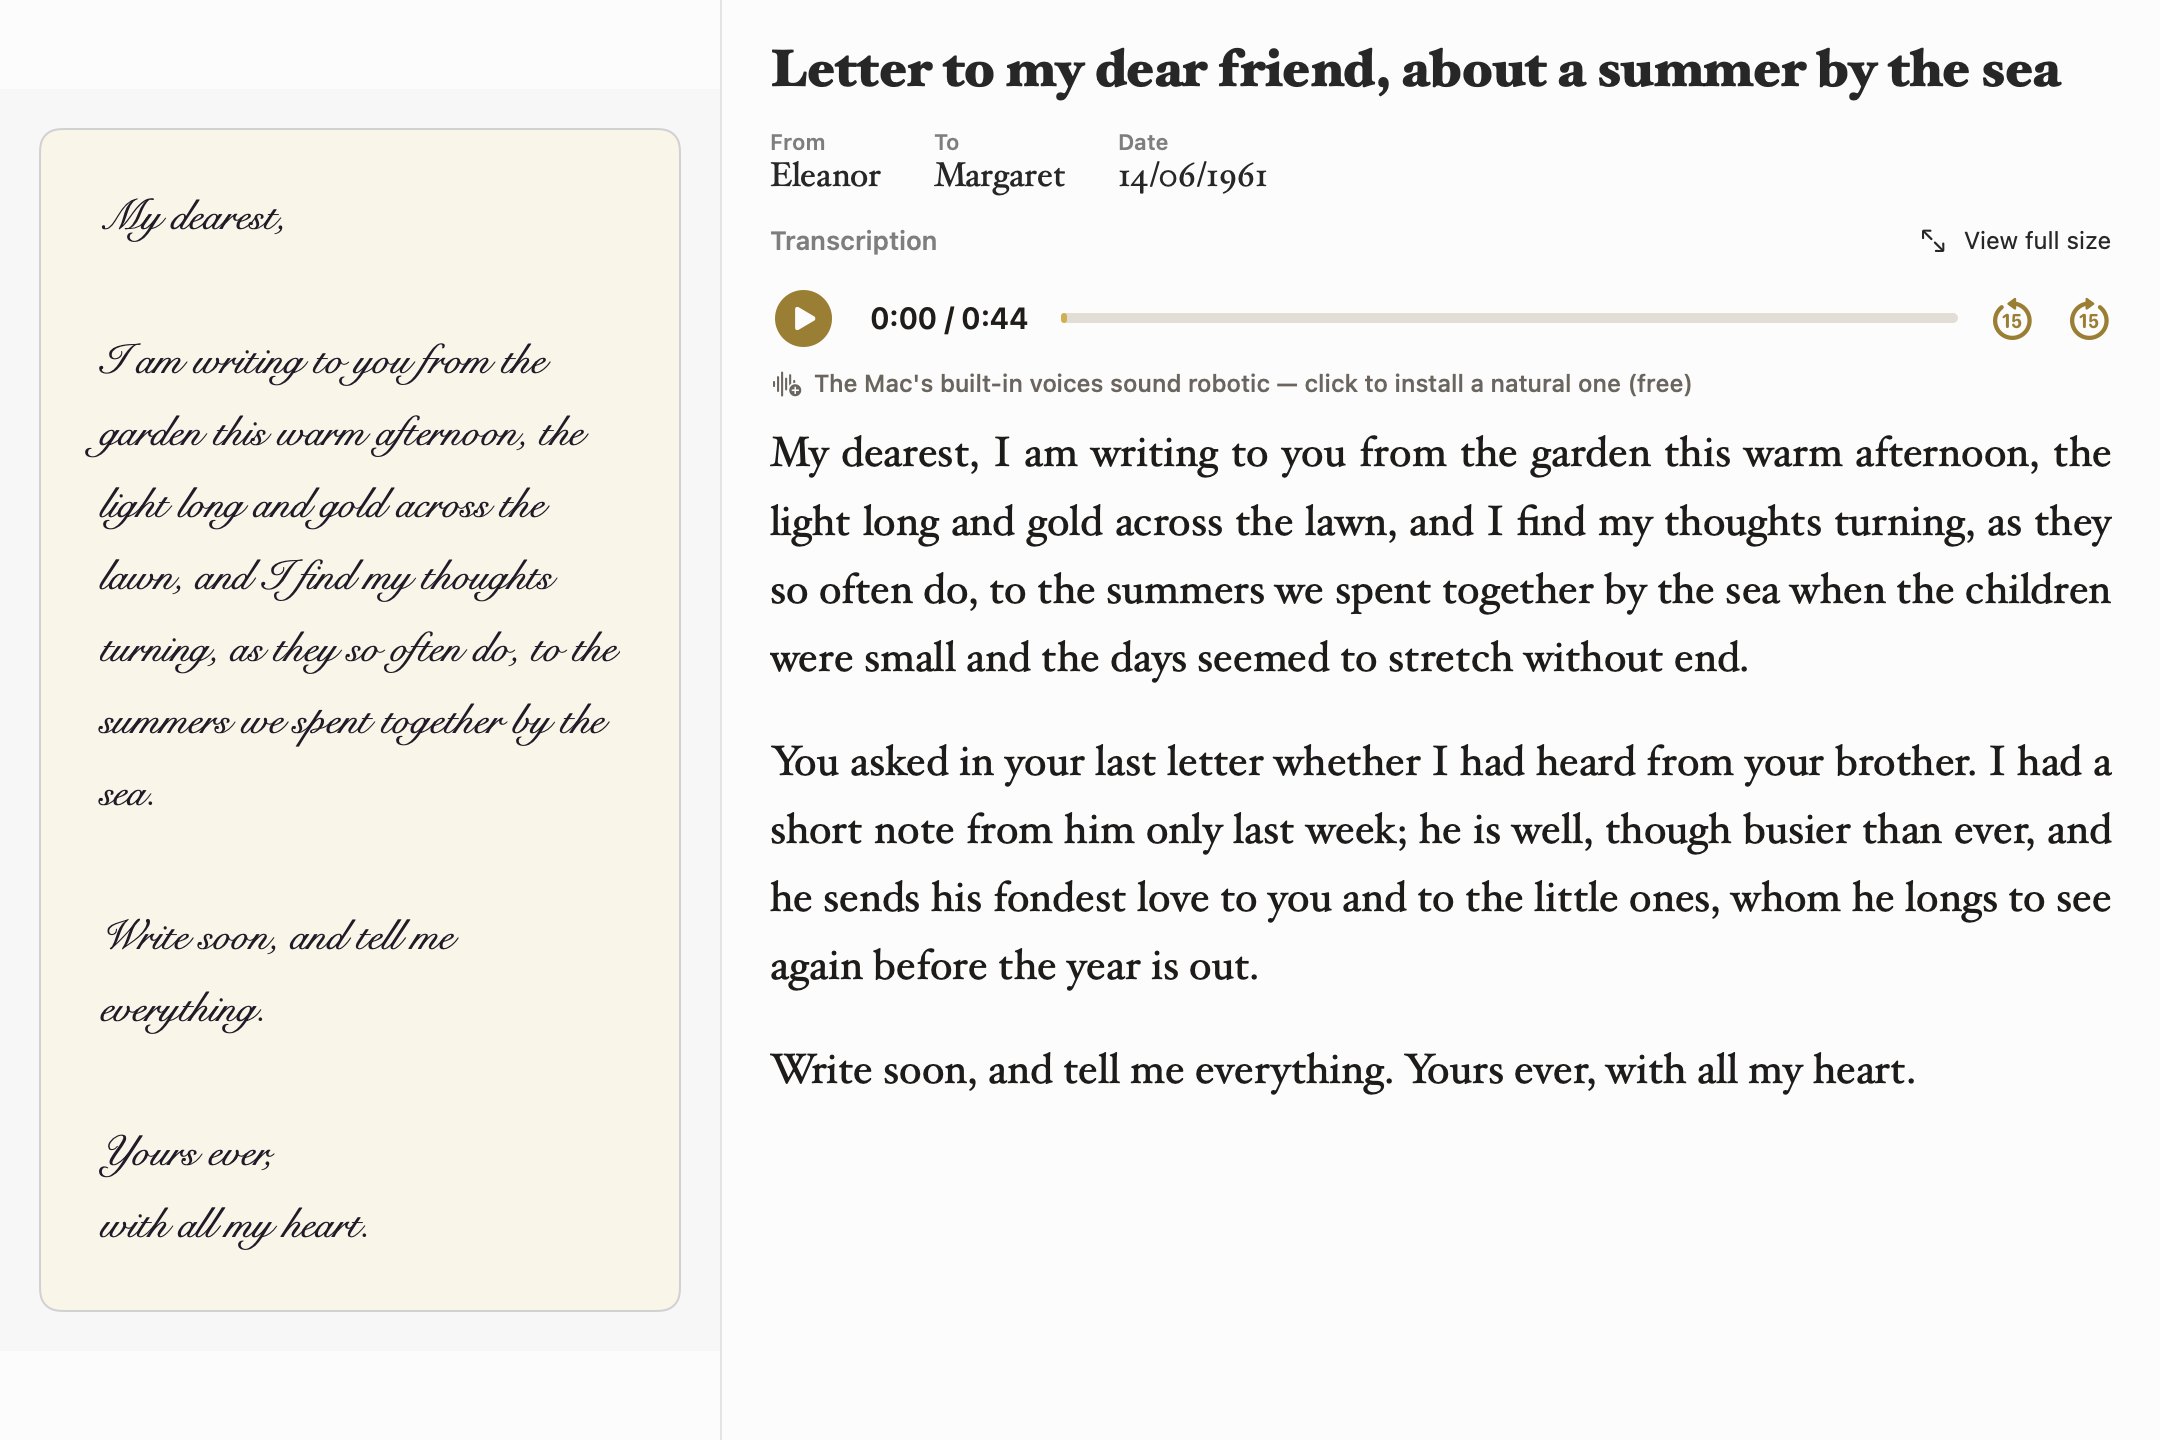
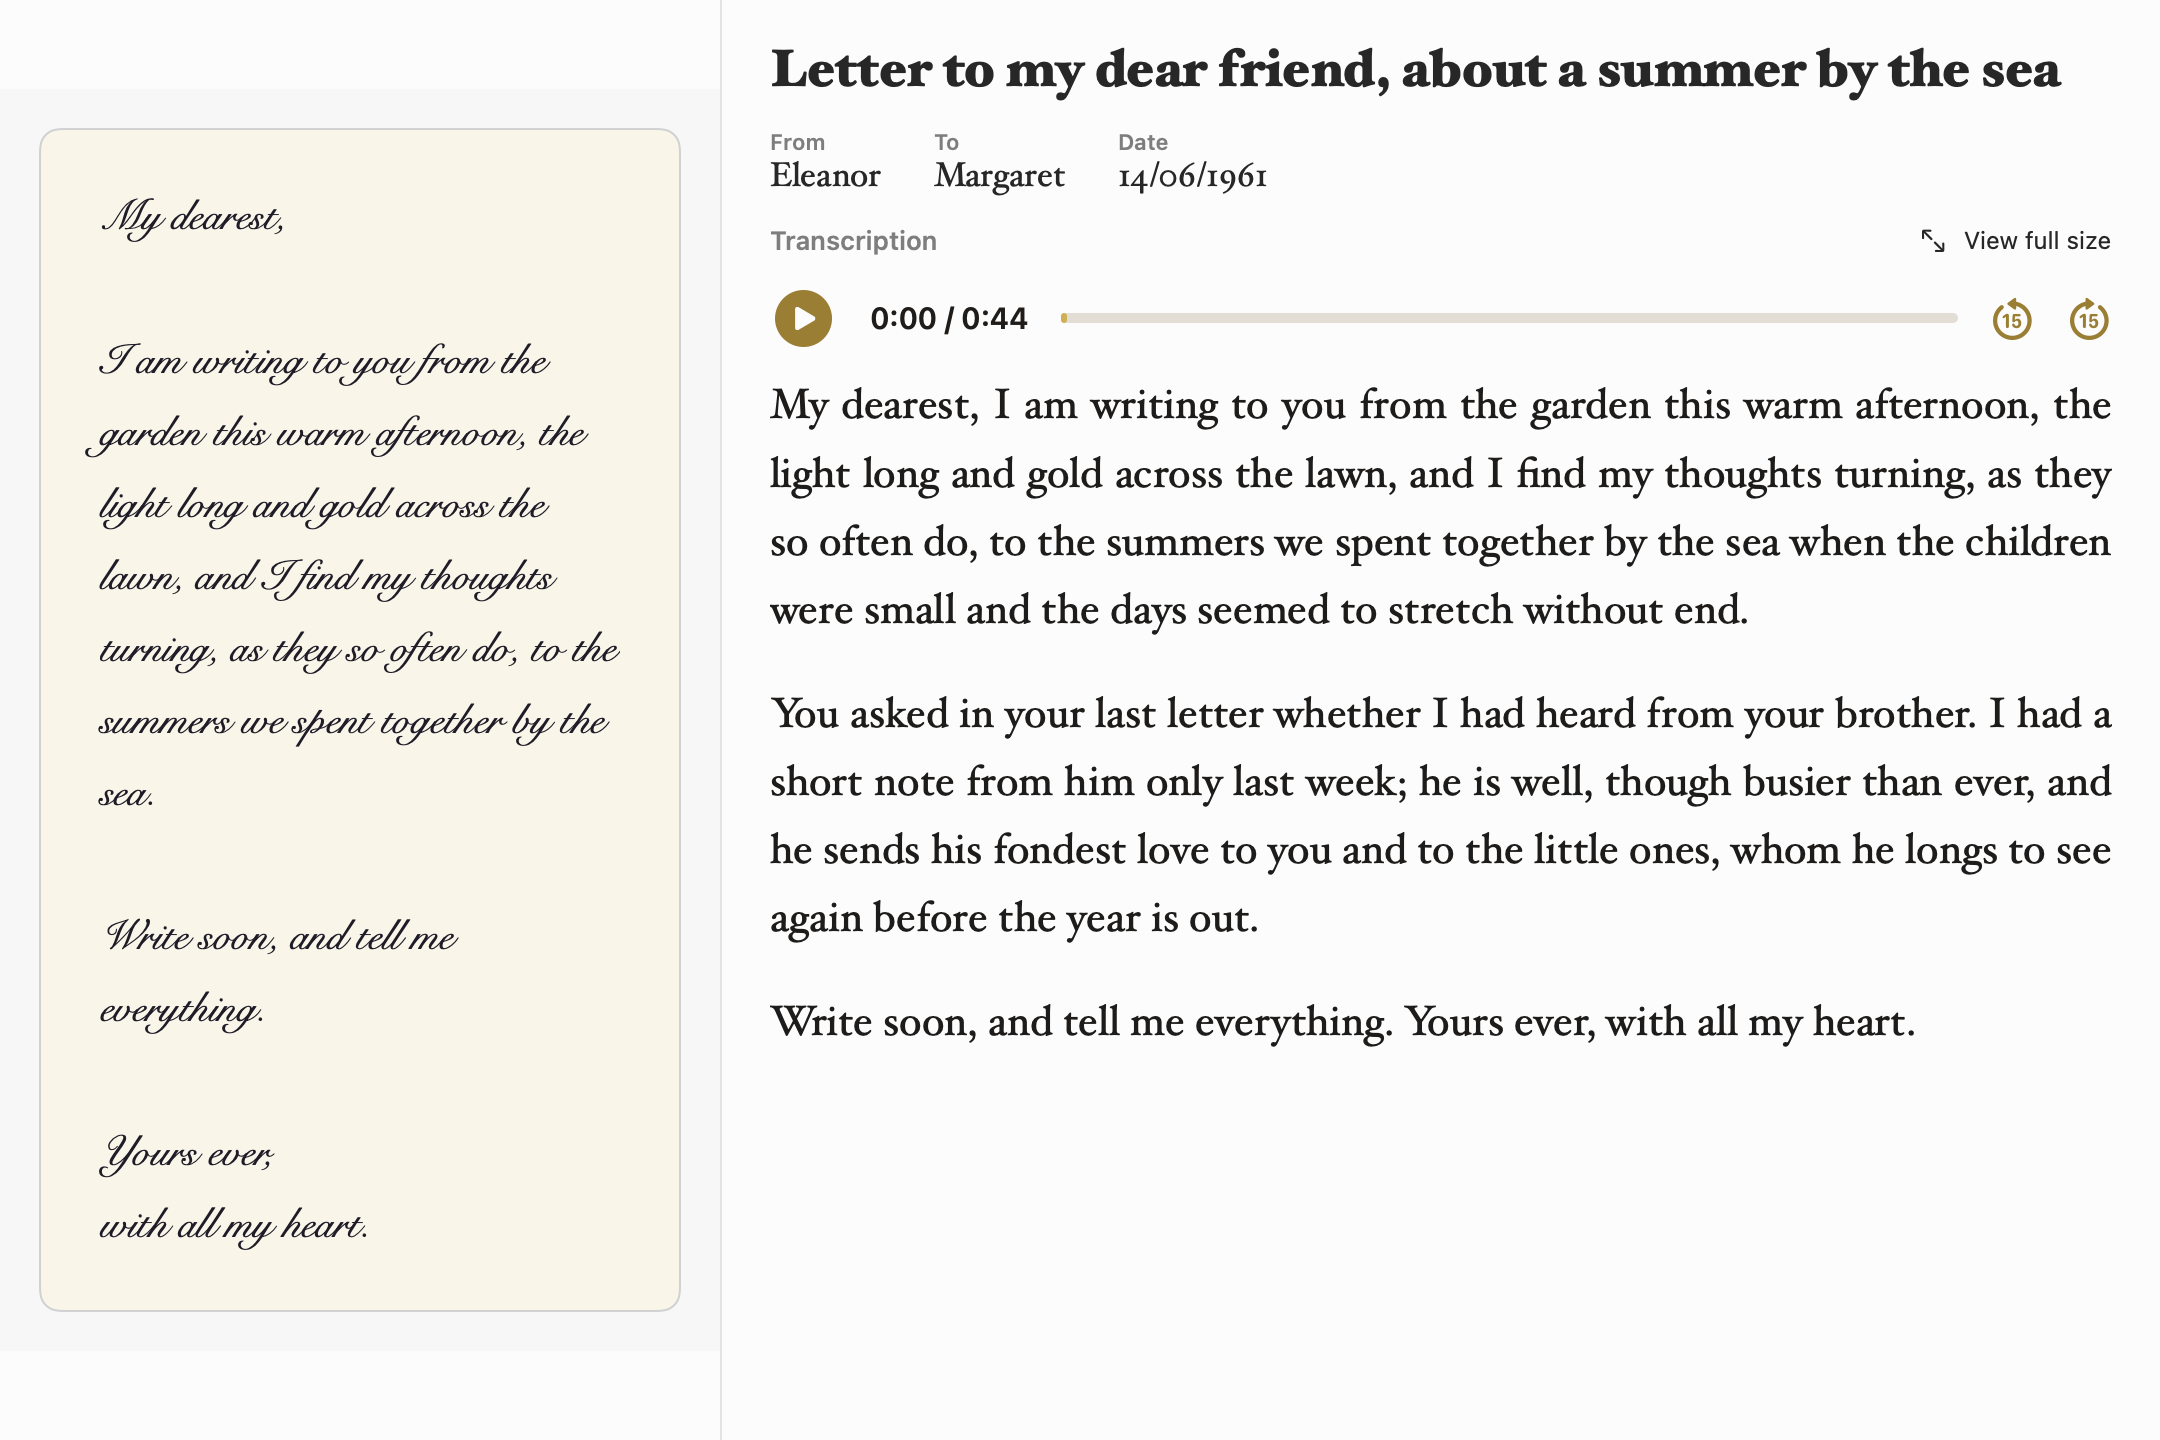
feat: site polish (Cormorant type, install-first, subscription link, back-to-top), fresh screenshots, no playback tooltips
- Site: Cormorant Garamond display + Source Serif 4 body; smaller hero; install
  section directly after the hero; "Currently requires a Claude subscription —
  sign up here" pill linking to claude.ai above the download button; back-to-top
  circle; bottom CTA; refreshed feature screenshots (current playback UI).
- New docs/screenshot.png rendered offscreen from the real shell against a seeded
  sample archive (COMBRAY_ROOT override) — no personal letters published.
- Removed hover tooltips from the playback controls.
- README links to the website.

Claude-Session: https://claude.ai/code/session_01UMkH9djewCtHhzLUsWsUiK

Changed region(s): [[0.3412, 0.25, 0.9926, 0.75]]

diff --git a/docs/index.html b/docs/index.html
@@ -7,15 +7,15 @@
 <meta name="description" content="Combray photographs your handwritten letters, transcribes the handwriting with Claude, and keeps them in a searchable archive — the original beside a faithful reading, for good. For macOS." />
 <link rel="preconnect" href="https://fonts.googleapis.com" />
 <link rel="preconnect" href="https://fonts.gstatic.com" crossorigin />
-<link href="https://fonts.googleapis.com/css2?family=Fraunces:opsz,wght@9..144,400;9..144,500;9..144,600;9..144,600&family=Newsreader:ital,opsz,wght@0,6..72,400;0,6..72,500;1,6..72,400&display=swap" rel="stylesheet" />
+<link href="https://fonts.googleapis.com/css2?family=Cormorant+Garamond:ital,wght@0,400;0,500;0,600;0,700;1,400;1,500;1,600&family=Source+Serif+4:ital,opsz,wght@0,8..60,400;0,8..60,500;0,8..60,600;1,8..60,400&display=swap" rel="stylesheet" />
 <style>
 :root{
   --paper:#FAF5EB; --paper-2:#F3E9D8; --paper-3:#EFE3CE;
   --ink:#1E1912; --ink-soft:#4C4336; --muted:#8B806E;
   --gold:#B0761A; --gold-bright:#D9A93B; --gold-deep:#8A5B12; --gold-soft:#EBD8A6;
   --line:#E4D8BF; --dark:#171009; --dark-2:#211809; --dark-ink:#EDE3CE;
-  --display:'Fraunces',Georgia,'Times New Roman',serif;
-  --body:'Newsreader',Georgia,serif;
+  --display:'Cormorant Garamond',Georgia,'Times New Roman',serif;
+  --body:'Source Serif 4',Georgia,serif;
   --mono:ui-monospace,'SF Mono',Menlo,monospace;
   --radius:16px; --shadow:0 30px 80px -30px rgba(60,40,10,.45);
   --maxw:1120px;
@@ -47,7 +47,7 @@ nav{
   padding:16px 28px; transition:background .4s ease, box-shadow .4s ease, backdrop-filter .4s ease;
 }
 nav.scrolled{background:rgba(250,245,235,.82); backdrop-filter:saturate(1.3) blur(14px); box-shadow:0 1px 0 var(--line)}
-.brand{display:flex; align-items:center; gap:11px; font-family:var(--display); font-weight:600; font-size:1.28rem; letter-spacing:.01em}
+.brand{display:flex; align-items:center; gap:11px; font-family:var(--display); font-weight:700; font-size:1.34rem; letter-spacing:.01em}
 .brand .made{width:30px; height:26px}
 .nav-links{display:flex; align-items:center; gap:30px}
 .nav-links a{color:var(--ink-soft); font-size:1rem; letter-spacing:.01em}
@@ -75,12 +75,17 @@ nav.scrolled{background:rgba(250,245,235,.82); backdrop-filter:saturate(1.3) blu
 .eyebrow{display:inline-flex; align-items:center; gap:10px; color:var(--gold-deep); font-family:var(--display);
   font-weight:500; letter-spacing:.16em; text-transform:uppercase; font-size:.82rem; margin-bottom:26px}
 .eyebrow .made{width:26px;height:22px}
-h1{font-family:var(--display); font-weight:600; font-size:clamp(2.9rem,7.4vw,5.6rem); line-height:1.02;
-  letter-spacing:-.02em; color:var(--ink); margin:0 auto; max-width:15ch}
+h1{font-family:var(--display); font-weight:700; font-size:clamp(2.5rem,6.2vw,4.7rem); line-height:1.04;
+  letter-spacing:-.015em; color:var(--ink); margin:0 auto; max-width:16ch}
 h1 em{font-style:italic; color:var(--gold-deep)}
-.lede{font-size:clamp(1.15rem,2.4vw,1.45rem); color:var(--ink-soft); max-width:44ch; margin:26px auto 0; line-height:1.6}
-.tagline{font-style:italic; color:var(--muted); margin-top:16px; font-size:1.08rem}
-.cta-row{display:flex; gap:16px; justify-content:center; align-items:center; flex-wrap:wrap; margin-top:36px}
+.lede{font-size:clamp(1.02rem,2vw,1.26rem); color:var(--ink-soft); max-width:46ch; margin:22px auto 0; line-height:1.62}
+.tagline{font-style:italic; color:var(--muted); margin-top:14px; font-size:.98rem}
+.require{margin-top:22px}
+.require a{display:inline-block; color:var(--gold-deep); font-weight:500; font-size:.98rem;
+  border:1px solid var(--gold-soft); border-radius:999px; padding:7px 18px; background:rgba(235,216,166,.22);
+  transition:border-color .2s, background .2s}
+.require a:hover{border-color:var(--gold); background:rgba(235,216,166,.4)}
+.cta-row{display:flex; gap:16px; justify-content:center; align-items:center; flex-wrap:wrap; margin-top:22px}
 .hero-meta{margin-top:18px; color:var(--muted); font-size:.95rem; letter-spacing:.02em}
 .hero-meta b{color:var(--gold-deep); font-weight:600}
 
@@ -101,13 +106,13 @@ h1 em{font-style:italic; color:var(--gold-deep)}
 section{padding:96px 0}
 .sec-head{text-align:center; max-width:40ch; margin:0 auto 12px}
 .kicker{color:var(--gold-deep); font-family:var(--display); font-weight:500; letter-spacing:.14em; text-transform:uppercase; font-size:.8rem}
-h2{font-family:var(--display); font-weight:600; font-size:clamp(2rem,4.4vw,3.1rem); line-height:1.08; letter-spacing:-.015em; margin:12px 0 0}
+h2{font-family:var(--display); font-weight:700; font-size:clamp(2rem,4.4vw,3.1rem); line-height:1.08; letter-spacing:-.01em; margin:12px 0 0}
 .sec-sub{color:var(--ink-soft); font-size:1.12rem; max-width:52ch; margin:18px auto 0; text-align:center}
 
 .feature{display:grid; grid-template-columns:1fr 1fr; gap:64px; align-items:center; margin-top:70px}
 .feature:first-of-type{margin-top:56px}
 .feature.rev .f-text{order:2}
-.feature .f-text h3{font-family:var(--display); font-weight:600; font-size:1.9rem; letter-spacing:-.01em; line-height:1.12}
+.feature .f-text h3{font-family:var(--display); font-weight:700; font-size:2rem; letter-spacing:-.005em; line-height:1.12}
 .feature .f-text .num{font-family:var(--display); color:var(--gold); font-size:1rem; letter-spacing:.1em; font-weight:600}
 .feature .f-text p{color:var(--ink-soft); margin-top:14px; font-size:1.08rem}
 .feature ul{list-style:none; margin-top:18px; display:flex; flex-direction:column; gap:10px}
@@ -169,6 +174,15 @@ footer .brand{justify-content:center; color:var(--ink); margin-bottom:14px}
 footer a{color:var(--gold-deep)}
 footer .small{font-size:.9rem; margin-top:10px}
 
+/* ---------- back to top ---------- */
+.totop{position:fixed; right:26px; bottom:26px; z-index:60; width:46px; height:46px; border-radius:50%;
+  display:grid; place-items:center; background:var(--ink); color:var(--paper); border:none;
+  box-shadow:0 12px 30px -10px rgba(40,25,5,.5); cursor:pointer; opacity:0; pointer-events:none;
+  transform:translateY(12px); transition:opacity .3s, transform .3s, background .2s}
+.totop.show{opacity:1; pointer-events:auto; transform:none}
+.totop:hover{background:var(--gold-deep)}
+.totop svg{width:20px;height:20px}
+
 /* ---------- reveal ---------- */
 .reveal{opacity:0; transform:translateY(26px); transition:opacity .8s cubic-bezier(.2,.7,.2,1), transform .8s cubic-bezier(.2,.7,.2,1)}
 .reveal.in{opacity:1; transform:none}
@@ -210,6 +224,7 @@ footer .small{font-size:.9rem; margin-top:10px}
     <h1 class="reveal">Every letter,<br><em>kept forever.</em></h1>
     <p class="lede reveal">Combray photographs your handwritten letters, transcribes the handwriting with Claude, and keeps them in a searchable archive — the original beside a faithful reading, for good.</p>
     <p class="tagline reveal">One bite of the madeleine brings it all back.</p>
+    <p class="require reveal"><a href="https://claude.ai" target="_blank" rel="noopener">Currently requires a Claude subscription — sign up here ↗</a></p>
     <div class="cta-row reveal">
       <a class="btn btn-gold" href="https://github.com/Labern/Combray/releases/latest/download/Combray.pkg">
         <svg viewBox="0 0 24 24" fill="none" stroke="currentColor" stroke-width="2" stroke-linecap="round" stroke-linejoin="round"><path d="M12 3v12m0 0l-4-4m4 4l4-4M5 21h14"/></svg>
@@ -217,7 +232,7 @@ footer .small{font-size:.9rem; margin-top:10px}
       </a>
       <a class="btn btn-ghost" href="#install">Install with Homebrew</a>
     </div>
-    <p class="hero-meta reveal">macOS 13+ · <b>Free for 28 days</b> · no account needed</p>
+    <p class="hero-meta reveal">macOS 13+ · <b>Free for 28 days</b></p>
     <div class="hero-shot reveal" id="heroShot">
       <div class="window">
         <div class="bar"><i></i><i></i><i></i><span class="t">Combray — Letter to my dear friend</span></div>
@@ -226,20 +241,44 @@ footer .small{font-size:.9rem; margin-top:10px}
     </div>
   </header>
 
-  <!-- WHAT IT IS -->
-  <section id="what" style="padding-top:70px">
-    <div class="wrap sec-head reveal" style="max-width:56ch">
-      <span class="kicker">What it is</span>
-      <h2>A home for handwriting.</h2>
-      <p class="sec-sub" style="max-width:none">Boxes of letters, near-illegible cursive, dates you can't quite read. Combray takes a photo of each page, has <b>Claude</b> read the hand and pull out who wrote it, to whom, when, and what it says — then keeps it all in plain folders on your Mac that you own outright. Every mode below is part of that one flow: <b>capture → transcribe → read → keep.</b></p>
+  <!-- INSTALL / TRIAL — first thing after the introduction -->
+  <section id="install" class="install" style="padding-top:80px">
+    <div class="wrap">
+      <div class="sec-head reveal"><span class="kicker">Install</span>
+        <h2>Start reading tonight.</h2>
+        <p class="sec-sub">Combray is a Mac app. Download the installer, or use Homebrew if you'd rather.</p></div>
+
+      <div class="pricecard reveal">
+        <div class="price">Free <span>for 28 days</span></div>
+        <div class="trial">Then keep everything you've archived.</div>
+        <div class="cta-row" style="margin-top:30px">
+          <a class="btn btn-gold" href="https://github.com/Labern/Combray/releases/latest/download/Combray.pkg">
+            <svg viewBox="0 0 24 24" fill="none" stroke="currentColor" stroke-width="2" stroke-linecap="round" stroke-linejoin="round"><path d="M12 3v12m0 0l-4-4m4 4l4-4M5 21h14"/></svg>
+            Download Combray.pkg
+          </a>
+        </div>
+        <div class="brew">
+          <code id="brewcmd">brew tap Labern/combray &amp;&amp; brew install --cask combray</code>
+          <button class="copy" id="copyBtn">Copy</button>
+        </div>
+        <p class="fine">macOS 13 or later · Apple Silicon.<br>
+          Transcription runs on Claude, so you sign in with a <a href="https://claude.ai" target="_blank" rel="noopener"><b>paid Claude plan</b></a> — for now; wider access is coming.<br>
+          First launch: right-click <b>Combray</b> in Applications → <b>Open</b> (it isn't notarized yet).</p>
+        <p class="soon"><b>Lifetime license</b> — coming soon.</p>
+      </div>
     </div>
   </section>
 
   <div class="rule"></div>
 
-  <!-- TRANSCRIBE -->
+  <!-- HOW IT WORKS -->
   <section id="transcribe">
     <div class="wrap">
+      <div class="sec-head reveal" style="max-width:56ch">
+        <span class="kicker">How it works</span>
+        <h2>A home for handwriting.</h2>
+        <p class="sec-sub" style="max-width:none">Boxes of letters, near-illegible cursive, dates you can't quite read. Combray takes a photo of each page, has <b>Claude</b> read the hand and pull out who wrote it, to whom, when, and what it says — then keeps it all in plain folders on your Mac that you own outright. One flow, four moments: <b>capture → transcribe → read → keep.</b></p>
+      </div>
       <div class="feature reveal">
         <div class="f-text">
           <div class="num">01 — Capture &amp; Transcribe</div>
@@ -266,7 +305,7 @@ footer .small{font-size:.9rem; margin-top:10px}
             <li>Justified, paragraph-perfect reading view</li>
             <li>Read-aloud with live word highlighting &amp; ±15s skip</li>
             <li>Position / total timer as it plays</li>
-            <li>One click installs a natural macOS voice (free)</li>
+            <li>A natural British voice, built in — male or female to match the writer</li>
           </ul>
         </div>
         <div class="window"><div class="bar"><i></i><i></i><i></i><span class="t">Transcription</span></div>
@@ -350,29 +389,17 @@ footer .small{font-size:.9rem; margin-top:10px}
     </div>
   </section>
 
-  <!-- INSTALL / TRIAL -->
-  <section id="install" class="install">
-    <div class="wrap">
-      <div class="sec-head reveal"><span class="kicker">Install</span>
-        <h2>Start reading tonight.</h2>
-        <p class="sec-sub">Combray is a Mac app. Download the installer, or use Homebrew if you'd rather.</p></div>
-
-      <div class="pricecard reveal">
-        <div class="price">Free <span>for 28 days</span></div>
-        <div class="trial">Then keep everything you've archived.</div>
-        <div class="cta-row" style="margin-top:30px">
-          <a class="btn btn-gold" href="https://github.com/Labern/Combray/releases/latest/download/Combray.pkg">
-            <svg viewBox="0 0 24 24" fill="none" stroke="currentColor" stroke-width="2" stroke-linecap="round" stroke-linejoin="round"><path d="M12 3v12m0 0l-4-4m4 4l4-4M5 21h14"/></svg>
-            Download Combray.pkg
-          </a>
-        </div>
-        <div class="brew">
-          <code id="brewcmd">brew tap Labern/combray &amp;&amp; brew install --cask combray</code>
-          <button class="copy" id="copyBtn">Copy</button>
-        </div>
-        <p class="fine">macOS 13 or later · Apple Silicon · no account needed.<br>
-          First launch: right-click <b>Combray</b> in Applications → <b>Open</b> (it isn't notarized yet).</p>
-        <p class="soon"><b>Lifetime license</b> — coming soon.</p>
+  <!-- BOTTOM CTA -->
+  <section class="install" style="padding-top:70px">
+    <div class="wrap sec-head reveal">
+      <span class="kicker">Ready?</span>
+      <h2>Bring the letters back.</h2>
+      <div class="cta-row" style="margin-top:26px">
+        <a class="btn btn-gold" href="https://github.com/Labern/Combray/releases/latest/download/Combray.pkg">
+          <svg viewBox="0 0 24 24" fill="none" stroke="currentColor" stroke-width="2" stroke-linecap="round" stroke-linejoin="round"><path d="M12 3v12m0 0l-4-4m4 4l4-4M5 21h14"/></svg>
+          Download for Mac
+        </a>
+        <a class="btn btn-ghost" href="#install">Install options</a>
       </div>
     </div>
   </section>
@@ -385,6 +412,10 @@ footer .small{font-size:.9rem; margin-top:10px}
   <p class="small">Made by <a href="https://github.com/Labern/Combray">Labern</a> · Mac only, for now · © 2026</p>
 </footer>
 
+<button class="totop" id="toTop" aria-label="Back to top">
+  <svg viewBox="0 0 24 24" fill="none" stroke="currentColor" stroke-width="2.2" stroke-linecap="round" stroke-linejoin="round"><path d="M12 19V5M5 12l7-7 7 7"/></svg>
+</button>
+
 <script>
 // nav background on scroll
 const nav=document.getElementById('nav');
@@ -394,6 +425,10 @@ addEventListener('scroll',()=>{const h=document.getElementById('heroShot'); if(h
 // reveal on scroll
 const io=new IntersectionObserver((es)=>es.forEach(e=>{if(e.isIntersecting){e.target.classList.add('in');io.unobserve(e.target);}}),{threshold:.12});
 document.querySelectorAll('.reveal').forEach(el=>io.observe(el));
+// back to top
+const toTop=document.getElementById('toTop');
+addEventListener('scroll',()=>toTop.classList.toggle('show',scrollY>600),{passive:true});
+toTop.addEventListener('click',()=>scrollTo({top:0,behavior:'smooth'}));
 // copy brew
 const btn=document.getElementById('copyBtn');
 btn?.addEventListener('click',async()=>{

diff --git a/Sources/Combray/RenderProbe.swift b/Sources/Combray/RenderProbe.swift
@@ -15,6 +15,46 @@ You asked in your last letter whether I had heard from your brother. I had a sho
 Write soon, and tell me everything. Yours ever, with all my heart.
 """
 
+/// Renders the real app shell (RootView with a live controller) offscreen to a PNG — used to
+/// refresh `docs/screenshot.png` on minor releases without needing screen-recording permission.
+@MainActor
+func renderAppShellPNG(to path: String, width: CGFloat = 1040, height: CGFloat = 700) {
+    let controller = ArchiveController()
+    let updater = Updater()
+    // Compose sidebar + detail directly — NavigationSplitView's translucent sidebar material
+    // renders black in an offscreen cacheDisplay, so we mirror the layout without the material.
+    let content = VStack(spacing: 0) {
+        HStack(spacing: 0) {
+            SidebarView(mode: .constant(.letters))
+                .frame(width: 360)
+                .background(Theme.surface)
+                .scrollContentBackground(.hidden)
+            Divider()
+            DetailContainer()
+        }
+        QuoteBar()
+    }
+        .environmentObject(controller)
+        .environmentObject(updater)
+        .tint(Theme.accent)
+        .frame(width: width, height: height)
+    let host = NSHostingView(rootView: content)
+    host.frame = NSRect(x: 0, y: 0, width: width, height: height)
+    let window = NSWindow(contentRect: host.frame, styleMask: [.borderless], backing: .buffered, defer: false)
+    window.appearance = NSAppearance(named: .aqua)
+    host.appearance = NSAppearance(named: .aqua)
+    window.contentView = host
+    window.makeKeyAndOrderFront(nil)
+    DispatchQueue.main.asyncAfter(deadline: .now() + 1.4) {
+        host.layoutSubtreeIfNeeded()
+        guard let rep = host.bitmapImageRepForCachingDisplay(in: host.bounds) else { exit(1) }
+        host.cacheDisplay(in: host.bounds, to: rep)
+        guard let data = rep.representation(using: .png, properties: [:]) else { exit(1) }
+        try? data.write(to: URL(fileURLWithPath: path))
+        exit(0)
+    }
+}
+
 @MainActor
 func renderScenePNG(scene: String, to path: String, width: CGFloat) {
     let speech = SpeechController()

diff --git a/Sources/Combray/CombrayApp.swift b/Sources/Combray/CombrayApp.swift
@@ -20,6 +20,12 @@ struct CombrayApp: App {
             renderLetterPreviewPNG(to: args[i + 1])
             exit(0)
         }
+        if let i = args.firstIndex(of: "--render-app"), i + 1 < args.count {
+            let app = NSApplication.shared
+            app.setActivationPolicy(.accessory)
+            renderAppShellPNG(to: args[i + 1])                   // schedules snapshot + exit(0)
+            app.run()
+        }
         if let i = args.firstIndex(of: "--render-scene"), i + 2 < args.count {
             let scene = args[i + 1]
             let out = args[i + 2]

diff --git a/Sources/CombrayCore/ImageStore.swift b/Sources/CombrayCore/ImageStore.swift
@@ -15,6 +15,11 @@ public struct ImageStore: Sendable {
     /// NOT gate behind a privacy prompt (unlike `~/Documents`), so the app never has to ask for
     /// permission. Still the source of truth: `Letters/<n>/` folders + `combray.sqlite`.
     public static func defaultRoot() -> URL {
+        // Override hook for screenshot/testing runs (a seeded sample archive) — normal launches
+        // never set this.
+        if let override = ProcessInfo.processInfo.environment["COMBRAY_ROOT"], !override.isEmpty {
+            return URL(fileURLWithPath: override, isDirectory: true)
+        }
         let base = FileManager.default
             .urls(for: .applicationSupportDirectory, in: .userDomainMask).first!
         return base.appendingPathComponent("Combray", isDirectory: true)

diff --git a/Sources/Combray/LetterDetail.swift b/Sources/Combray/LetterDetail.swift
@@ -294,7 +294,6 @@ struct LetterDetailView: View {
                 }
                 if !letter.transcription.isEmpty {
                     PlaybackBar(controller: speech)
-                        .tip("Read the transcription aloud — play/pause, skip 15s, follow the words.")
                 }
                 if isEditing {
                     TextEditor(text: $draft)

diff --git a/Sources/Combray/Speech.swift b/Sources/Combray/Speech.swift
@@ -504,7 +504,6 @@ struct PlaybackBar: View {
                 }
                 .buttonStyle(TapStyle())
                 .foregroundStyle(Theme.faint)
-                .help("Downloads a natural neural voice (~120 MB) into Combray itself — no system settings, used automatically from then on.")
             }
         }
     }

diff --git a/README.md b/README.md
@@ -2,7 +2,7 @@
 
 *One bite of the madeleine brings it all back.*
 
-**Version: 0.14.0**
+**Version: 0.14.0** · **[combray — the website](https://labern.github.io/Combray/)**
 
 A personal **macOS** app that rescues **near-illegible handwritten letters** into a searchable,
 browsable archive. Photograph a letter with your iPhone, and **Claude** transcribes it — then stores